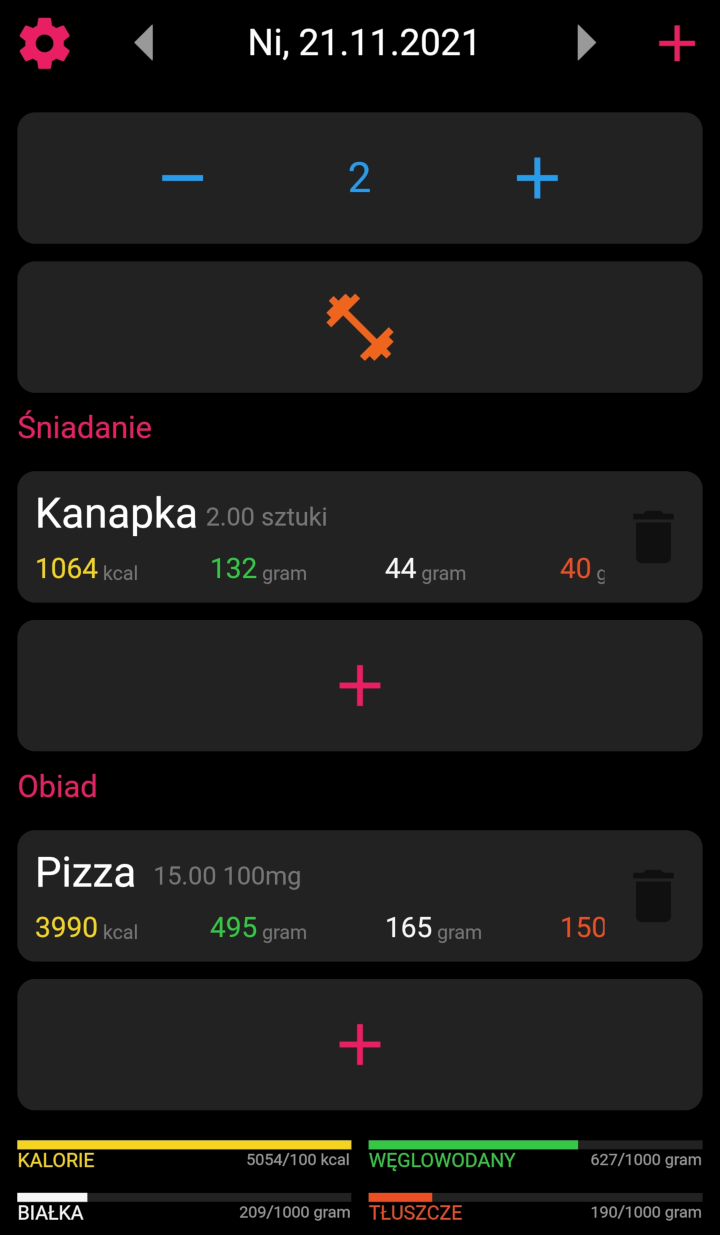
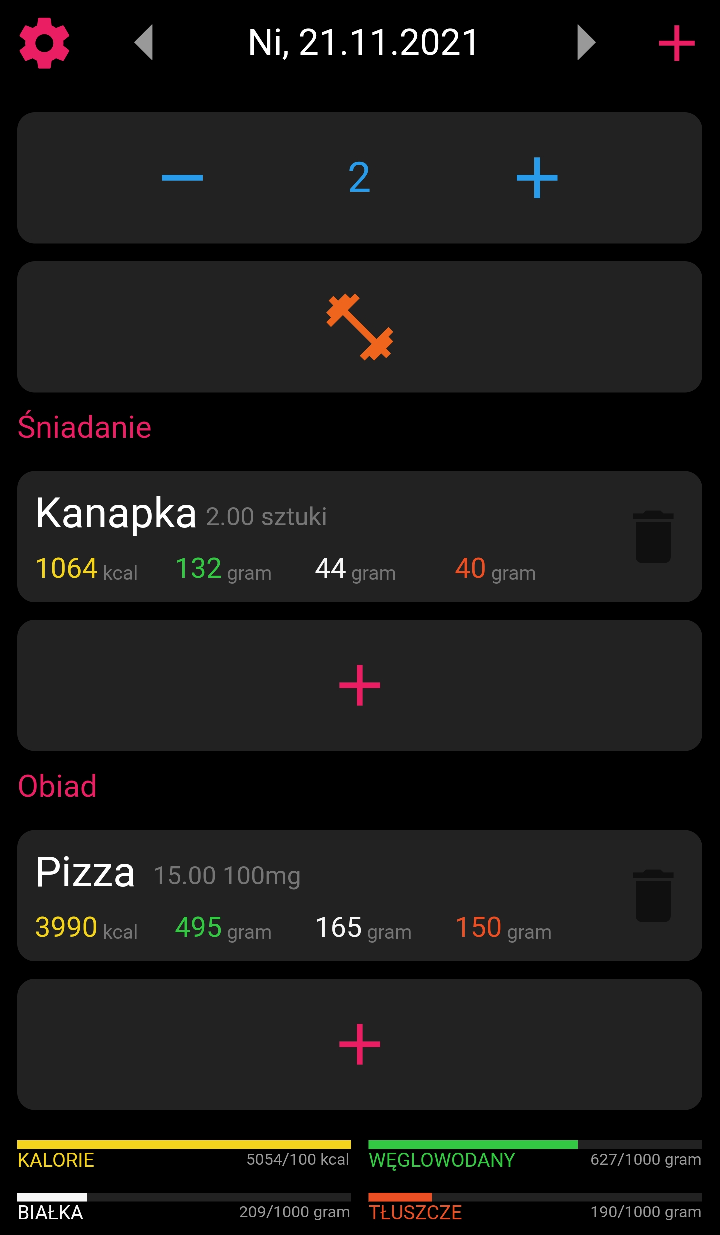
Fix screenshot and spacing

diff --git a/lib/widgets/mainScreen/listItems/meal_ListItem.dart b/lib/widgets/mainScreen/listItems/meal_ListItem.dart
@@ -72,7 +72,7 @@ class MealListItemState extends State<MealListItem> {
                 Positioned(
                   bottom: 10,
                   left: 10,
-                  width: 90,
+                  width: 60,
                   height: 23,
                   child: Row(
                     crossAxisAlignment: CrossAxisAlignment.end,
@@ -92,8 +92,8 @@ class MealListItemState extends State<MealListItem> {
                 ),
                 Positioned(
                   bottom: 10,
-                  left: 110,
-                  width: 90,
+                  left: 90,
+                  width: 60,
                   height: 23,
                   child: Row(
                     crossAxisAlignment: CrossAxisAlignment.end,
@@ -113,8 +113,8 @@ class MealListItemState extends State<MealListItem> {
                 ),
                 Positioned(
                   bottom: 10,
-                  left: 210,
-                  width: 90,
+                  left: 170,
+                  width: 60,
                   height: 23,
                   child: Row(
                     crossAxisAlignment: CrossAxisAlignment.end,
@@ -134,8 +134,8 @@ class MealListItemState extends State<MealListItem> {
                 ),
                 Positioned(
                   bottom: 10,
-                  left: 310,
-                  width: 90,
+                  left: 250,
+                  width: 60,
                   height: 23,
                   child: Row(
                     crossAxisAlignment: CrossAxisAlignment.end,
